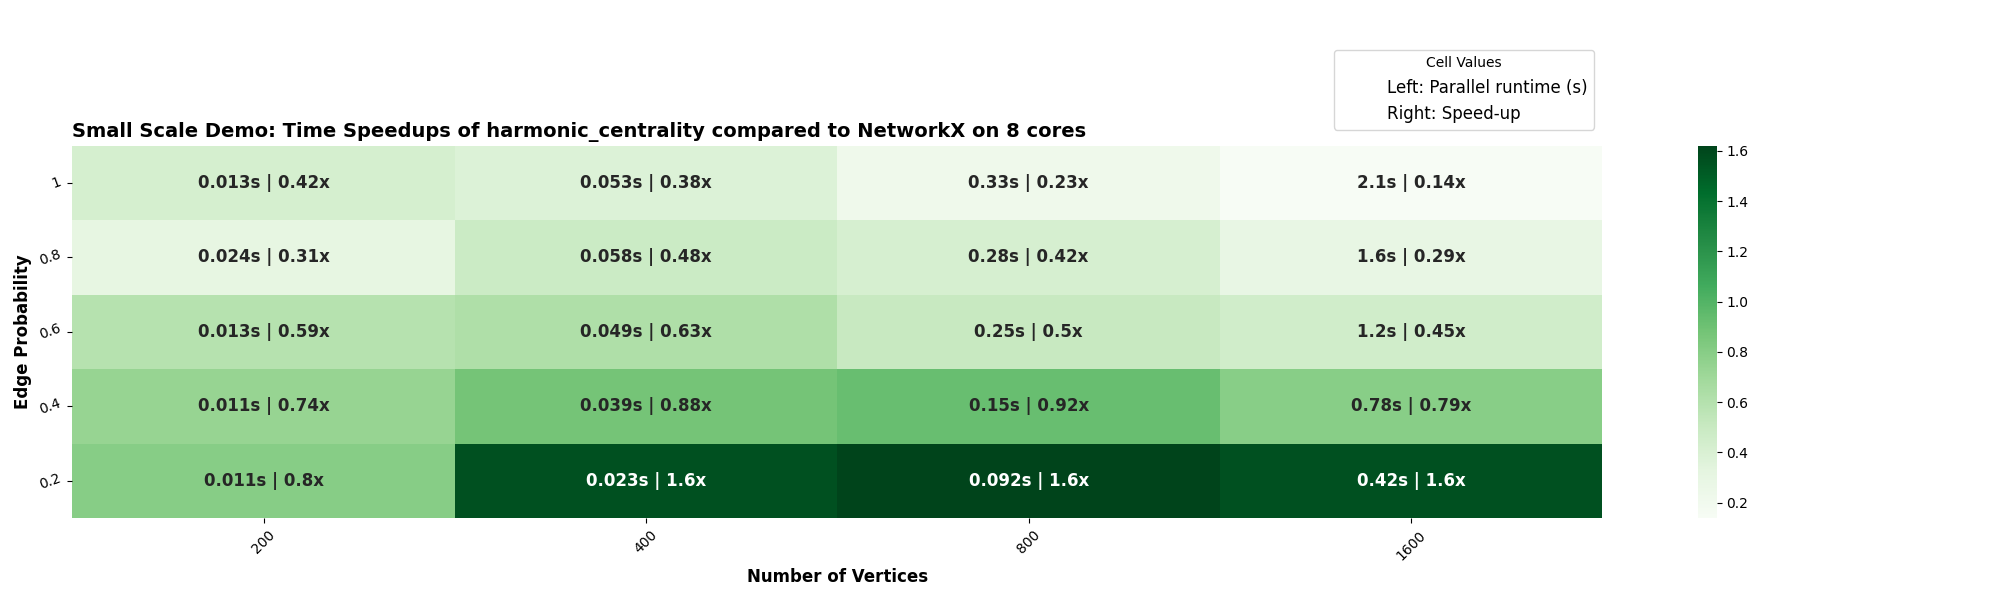
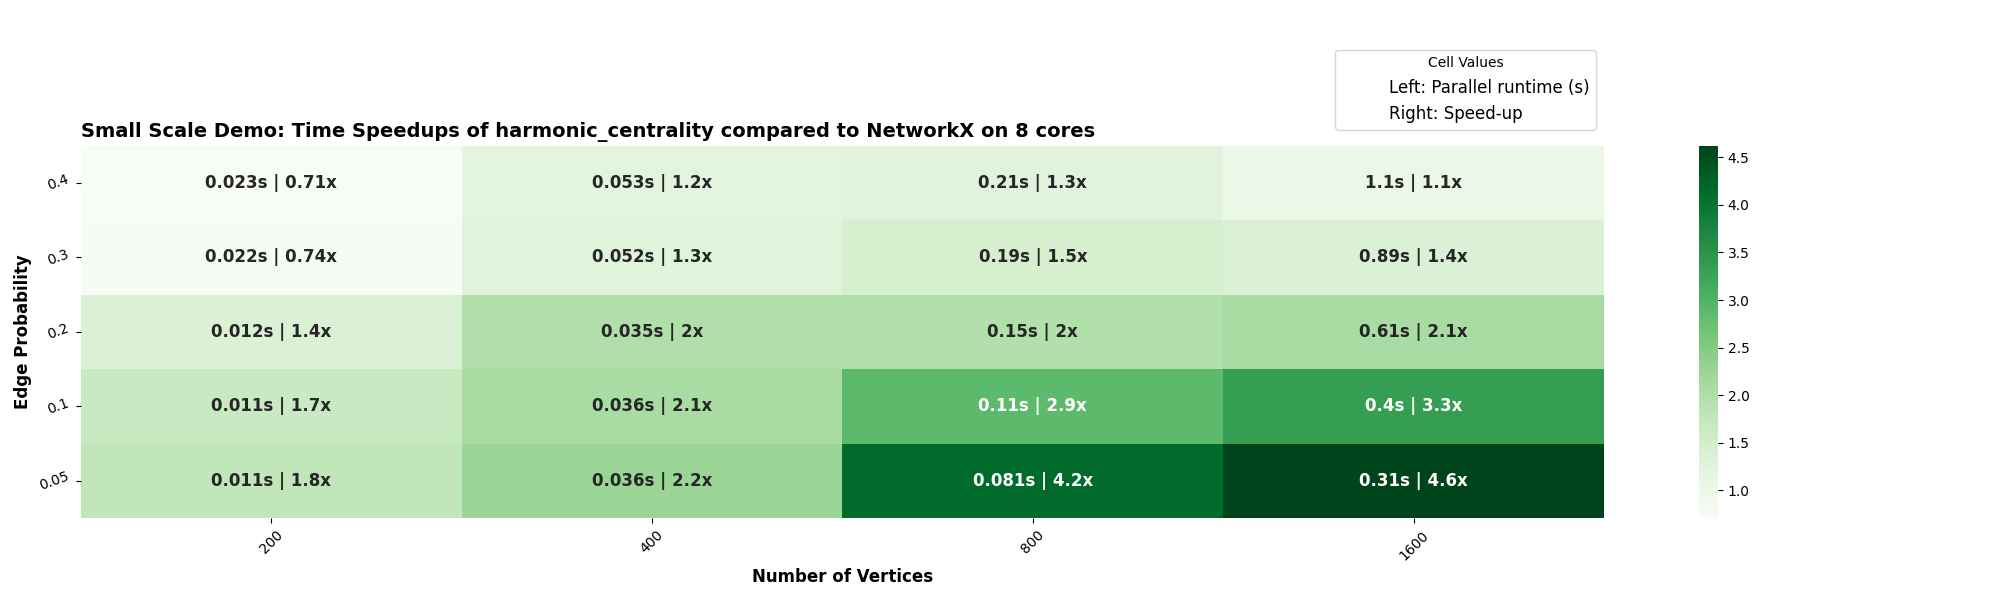
add should_run; modify heatmaps with sparse probabilities

diff --git a/nx_parallel/utils/should_run_policies.py b/nx_parallel/utils/should_run_policies.py
@@ -5,6 +5,7 @@ __all__ = [
     "default_should_run",
     "should_skip_parallel",
     "should_run_if_large",
+    "should_run_if_sparse",
 ]
 
 
@@ -24,3 +25,15 @@ def default_should_run(*_):
     if n_jobs in (None, 0, 1):
         return "Parallel backend requires `n_jobs` > 1 to run"
     return True
+
+
+def should_run_if_sparse(G, *args, threshold=0.3, **kwargs):
+    if hasattr(G, "graph_object"):
+        G = G.graph_object
+
+    nodes = len(G)
+    if nodes <= 1:
+        return "Empty graph" if nodes == 0 else "Single-node graph"
+
+    density = 2 * G.number_of_edges() / (nodes * (nodes - 1))
+    return "Graph too dense for parallel execution" if density > threshold else True

diff --git a/nx_parallel/algorithms/centrality/harmonic.py b/nx_parallel/algorithms/centrality/harmonic.py
@@ -6,7 +6,7 @@ from functools import partial
 __all__ = ["harmonic_centrality"]
 
 
-@nxp._configure_if_nx_active()
+@nxp._configure_if_nx_active(should_run=nxp.should_run_if_sparse)
 def harmonic_centrality(
     G, nbunch=None, distance=None, sources=None, get_chunks="chunks"
 ):
